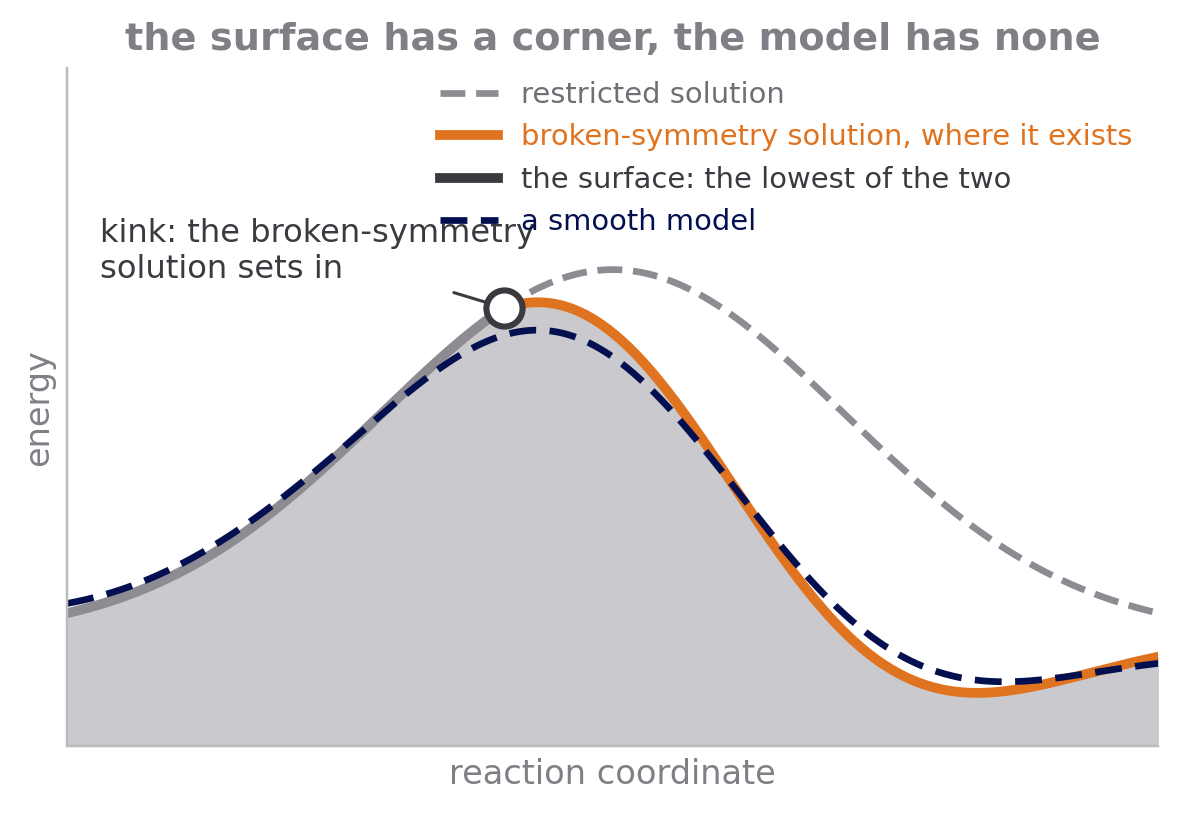
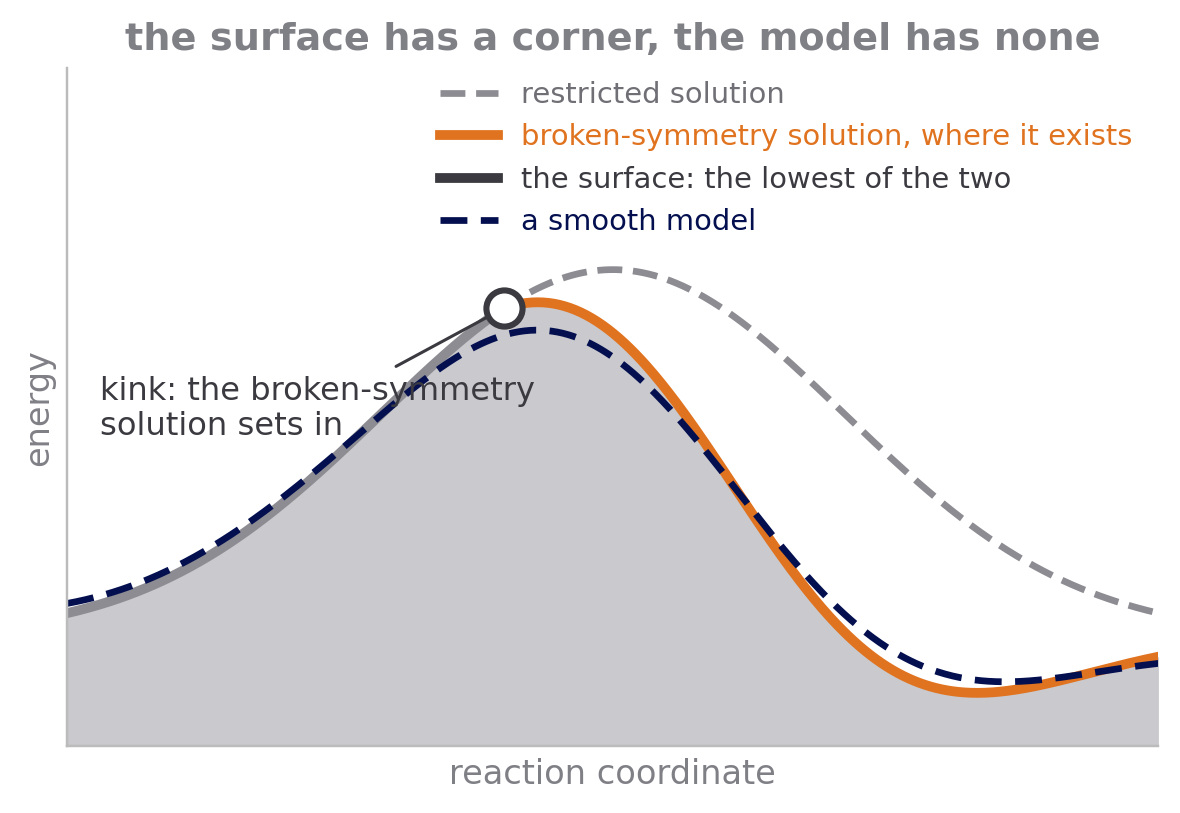
Defence talk: kink picture, annotation placed

Changed region(s): [[0.061, 0.4305, 0.4576, 0.5535], [0.0915, 0.2768, 0.4576, 0.3383], [0.3661, 0.3998, 0.3966, 0.4305]]

diff --git a/docs/defence/draw_kink.py b/docs/defence/draw_kink.py
@@ -31,7 +31,7 @@ ax.plot([], [], color=DARK, lw=3.2, label="the surface: the lowest of the two")
 ax.plot(x, model, color=NAVY, lw=2.2, ls=(0, (4, 2)), label="a smooth model")
 i0 = np.argmin(np.abs(x - x0))
 ax.scatter([x[i0]], [low[i0]], s=140, facecolor="white", edgecolor=DARK, lw=2, zorder=5)
-ax.annotate("kink: the broken-symmetry\nsolution sets in", (x[i0], low[i0]), xytext=(0.03, 1.05), fontsize=10.5, color=DARK,
+ax.annotate("kink: the broken-symmetry\nsolution sets in", (x[i0], low[i0]), xytext=(0.03, 0.62), fontsize=10.5, color=DARK,
             ha="left", va="center", arrowprops=dict(arrowstyle="-", color=DARK, lw=1))
 ax.set_xlim(0, 1); ax.set_ylim(-0.3, 1.55)
 ax.set_xticks([]); ax.set_yticks([])
